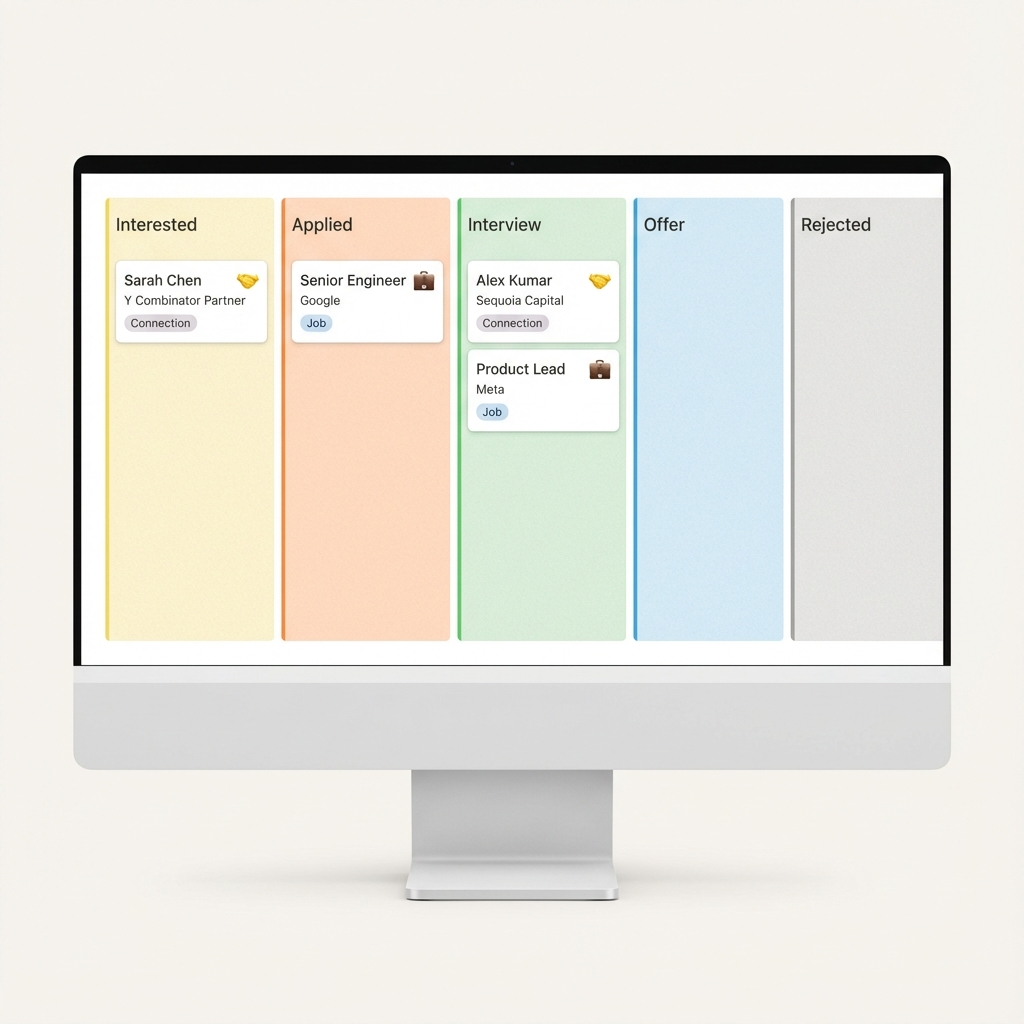
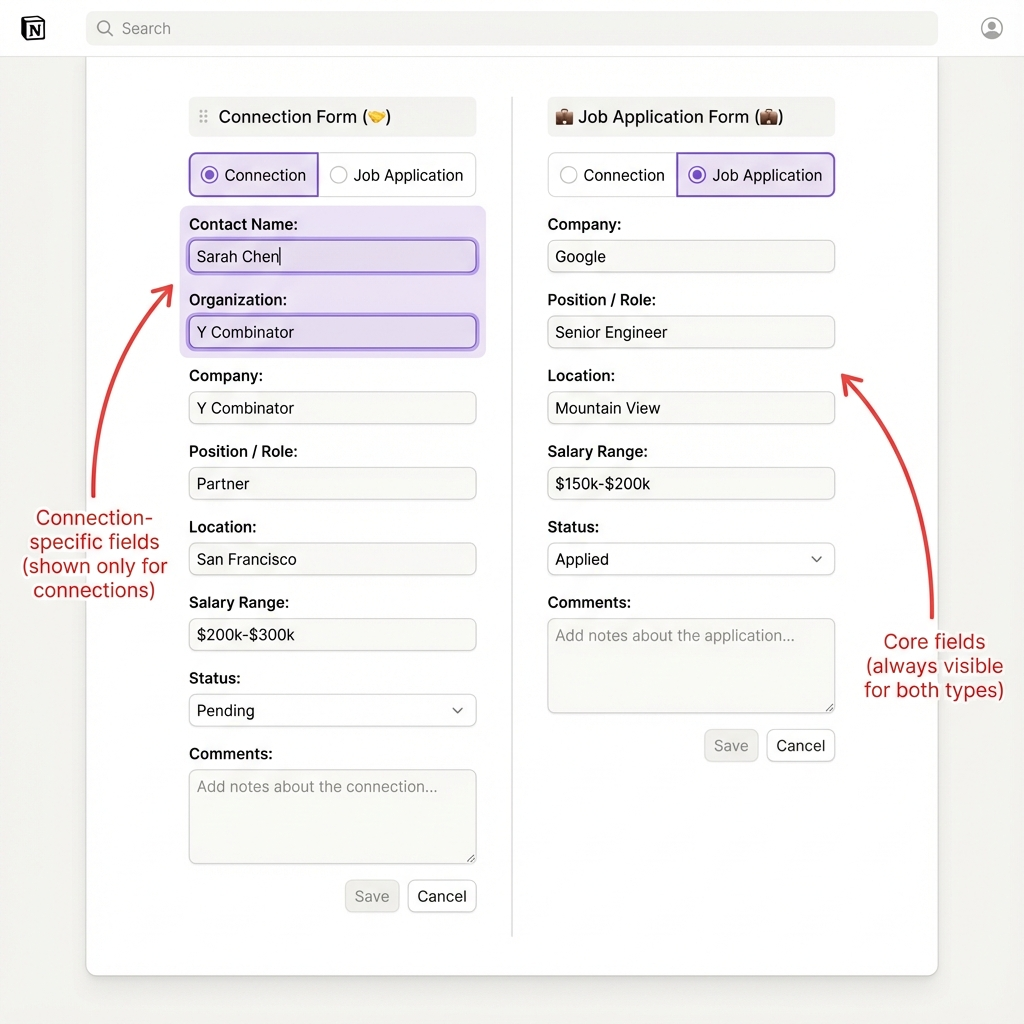
Update documentation and images for refined data model
- Replace preview.png with updated image showing dual entity system
- Replace dual-entity-system.png showing shared fields model
- Update README to accurately describe shared data model
- Remove duplicate Data Storage section
- Clarify that connections share all job fields with additional optional fields
- Add conversion workflow explanation

diff --git a/README.md b/README.md
@@ -33,53 +33,40 @@ The server will keep running until you press `Ctrl+C`. Keep it running while usi
 
 ### Working with Connections vs Jobs
 
+**Shared Data Model**: Both connections and jobs share core fields (company, position, location, salary). Connections have additional optional fields for networking context.
+
 **Connections (🤝)**: Use for networking relationships that may lead to opportunities
-- Track: Contact Name, Organization, Status, Comments
-- Example: "Sarah Chen - Y Combinator Partner"
+- Connection-specific fields: Contact Name, Organization (optional alternative to company)
+- All core fields available: Company, Position, Location, Salary
+- Example: Contact "Sarah Chen" at "Y Combinator" for "Partner" role
 - Workflow: Initial Contact → Exploring Synergy → Active Discussion → Opportunity Identified
 
 **Job Applications (💼)**: Use for formal applications to specific roles
-- Track: Position, Company, Location, Salary, Status, Comments  
-- Example: "Senior Engineer at Google"
+- Uses core fields: Company, Position, Location, Salary
+- No connection-specific fields shown
+- Example: "Senior Engineer" at "Google" in "Mountain View" - "$150k-$200k"
 - Workflow: Interested → Applied → Interview → Offer → Rejected
 
 ### Adding an Item
 
 1. Click the **"+ Add Job"** button
 2. Select type: 🤝 Connection or 💼 Job Application
-3. Fill in the appropriate fields (form changes based on type)
-4. Choose status and save
+3. **For Connections**: Fill Contact Name and optionally Organization, plus any core fields (company, position, location, salary)
+4. **For Jobs**: Fill Company, Position, and optionally Location and Salary
+5. Choose status and save
 
 ### Managing Items
 
-- **Add Job**: Click "+ Add Job" button
-- **View Details**: Click any job card
-- **Move Between Stages**: Drag and drop cards
-- **Edit**: Click a card, modify fields, and save
+- **Add**: Click "+ Add Job" button
+- **View/Edit**: Click any card to open the lateral panel
+- **Move Between Stages**: Drag and drop cards between columns
+- **Convert**: Easily convert a connection to a job by editing - all fields are already there
 - **Delete**: Open a card and click "Delete"
-- **Track Progress**: Use the comments field to log notes
-
-## Features
-
-- 5 workflow stages: Interested → Applied → Interview → Offer → Rejected
-- Lateral detail panel with all job information
-- Comments field for progress tracking
-- Drag-and-drop functionality
-- Auto-save to localStorage
-- Clean, minimalist design
+- **Track Progress**: Use the comments field to log notes, next steps, and follow-ups
 
 ## Data Storage
 
-All data is stored locally in your browser's localStorage. As long as you:
-- Use the same browser
-- Access via http://localhost:8000 (not file://)
-- Don't clear browser data
-
-Your jobs will persist indefinitely.
-
-## Data Storage
-
-All data is stored locally in your browser's localStorage. As long as you:
+All data (both connections and job applications) is stored locally in your browser's localStorage. As long as you:
 - Use the same browser
 - Access via http://localhost:8000 (not file://)
 - Don't clear browser data
